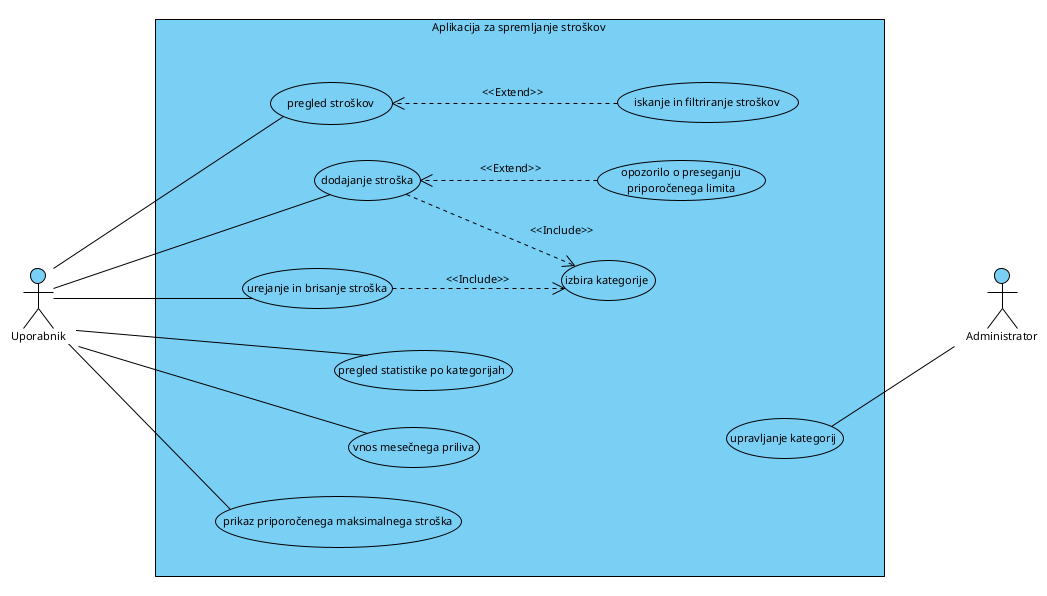
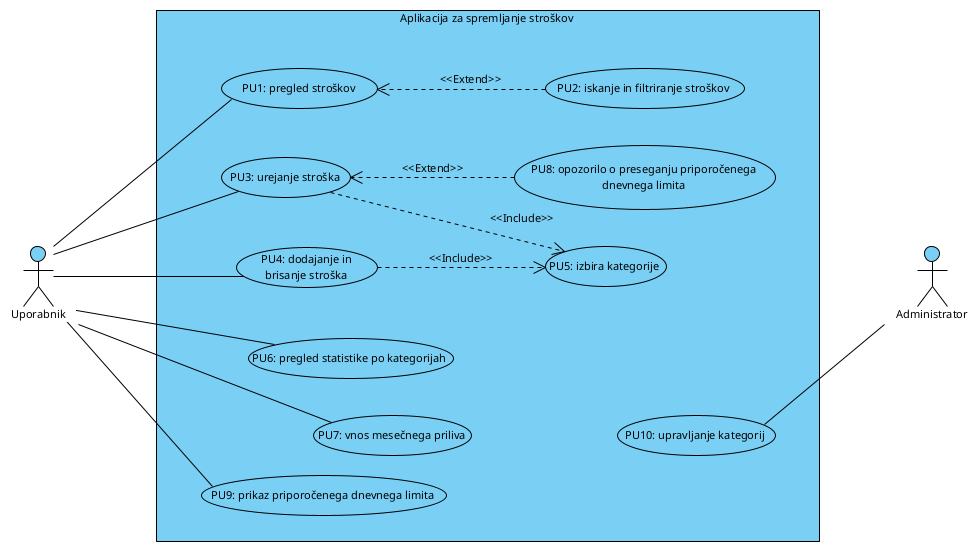
Popravljen DPU

diff --git a/README.md b/README.md
@@ -26,22 +26,23 @@ PU1: pregled stroškov\
 PU2: iskanje in filtriranje stroškov\
 PU3: dodajanje stroška\
 PU4: urejanje in brisanje stroška\
-PU5: izbira kategorije\
+PU5: izbira kategorije
 
 **Načrtovane funkcionalnosti:**\
 PU6: pregled statistike po kategorijah\
 PU7: vnos mesečnega  priliva\
-PU8: opozorilo o preseganju priporočenega limita\
-PU9: prikaz priporočenega maksimalnega stroška\
+PU8: opozorilo o preseganju priporočenega dnevnega limita\
+PU9: prikaz priporočenega dnevnega limita\
 PU10: upravljanje kategorij
 
 Akterja:
-- Uporabnik, ki upravlja stroške in mesečni priliv ter vidi priporočeni limit
+- Uporabnik, ki upravlja stroške in mesečni priliv ter vidi priporočeni dnevni limit
 - Administrator, ki upravlja kategorije
 
 Povezave:
-- `<<include>>`: dodajanje (PU3) in urejanje stroška (PU4) vedno vklučujeta izbiro kategorije (PU5)
-- `<<extend>>`: iskanje in filtriranje (PU2) razširja pregled stroškov (PU1), opozorilo o preseganju priporočenega limita (PU8), vendar samo če strošek preseže dnevni ali mesečni limit
+- `<<include>>`: dodajanje (PU3) in urejanje stroška (PU4) vedno vključujeta izbiro kategorije (PU5)
+- `<<extend>>`: iskanje in filtriranje (PU2) razširja pregled stroškov (PU1)
+- `<<extend>>:` opozorilo o preseganju priporočenega dnevnega limita (PU8) razširja urejanje stroška (PU3), vendar se prikaže samo, če strošek preseže dnevni limit
 
 ## Uporabljene tehnologije
 Backend:
